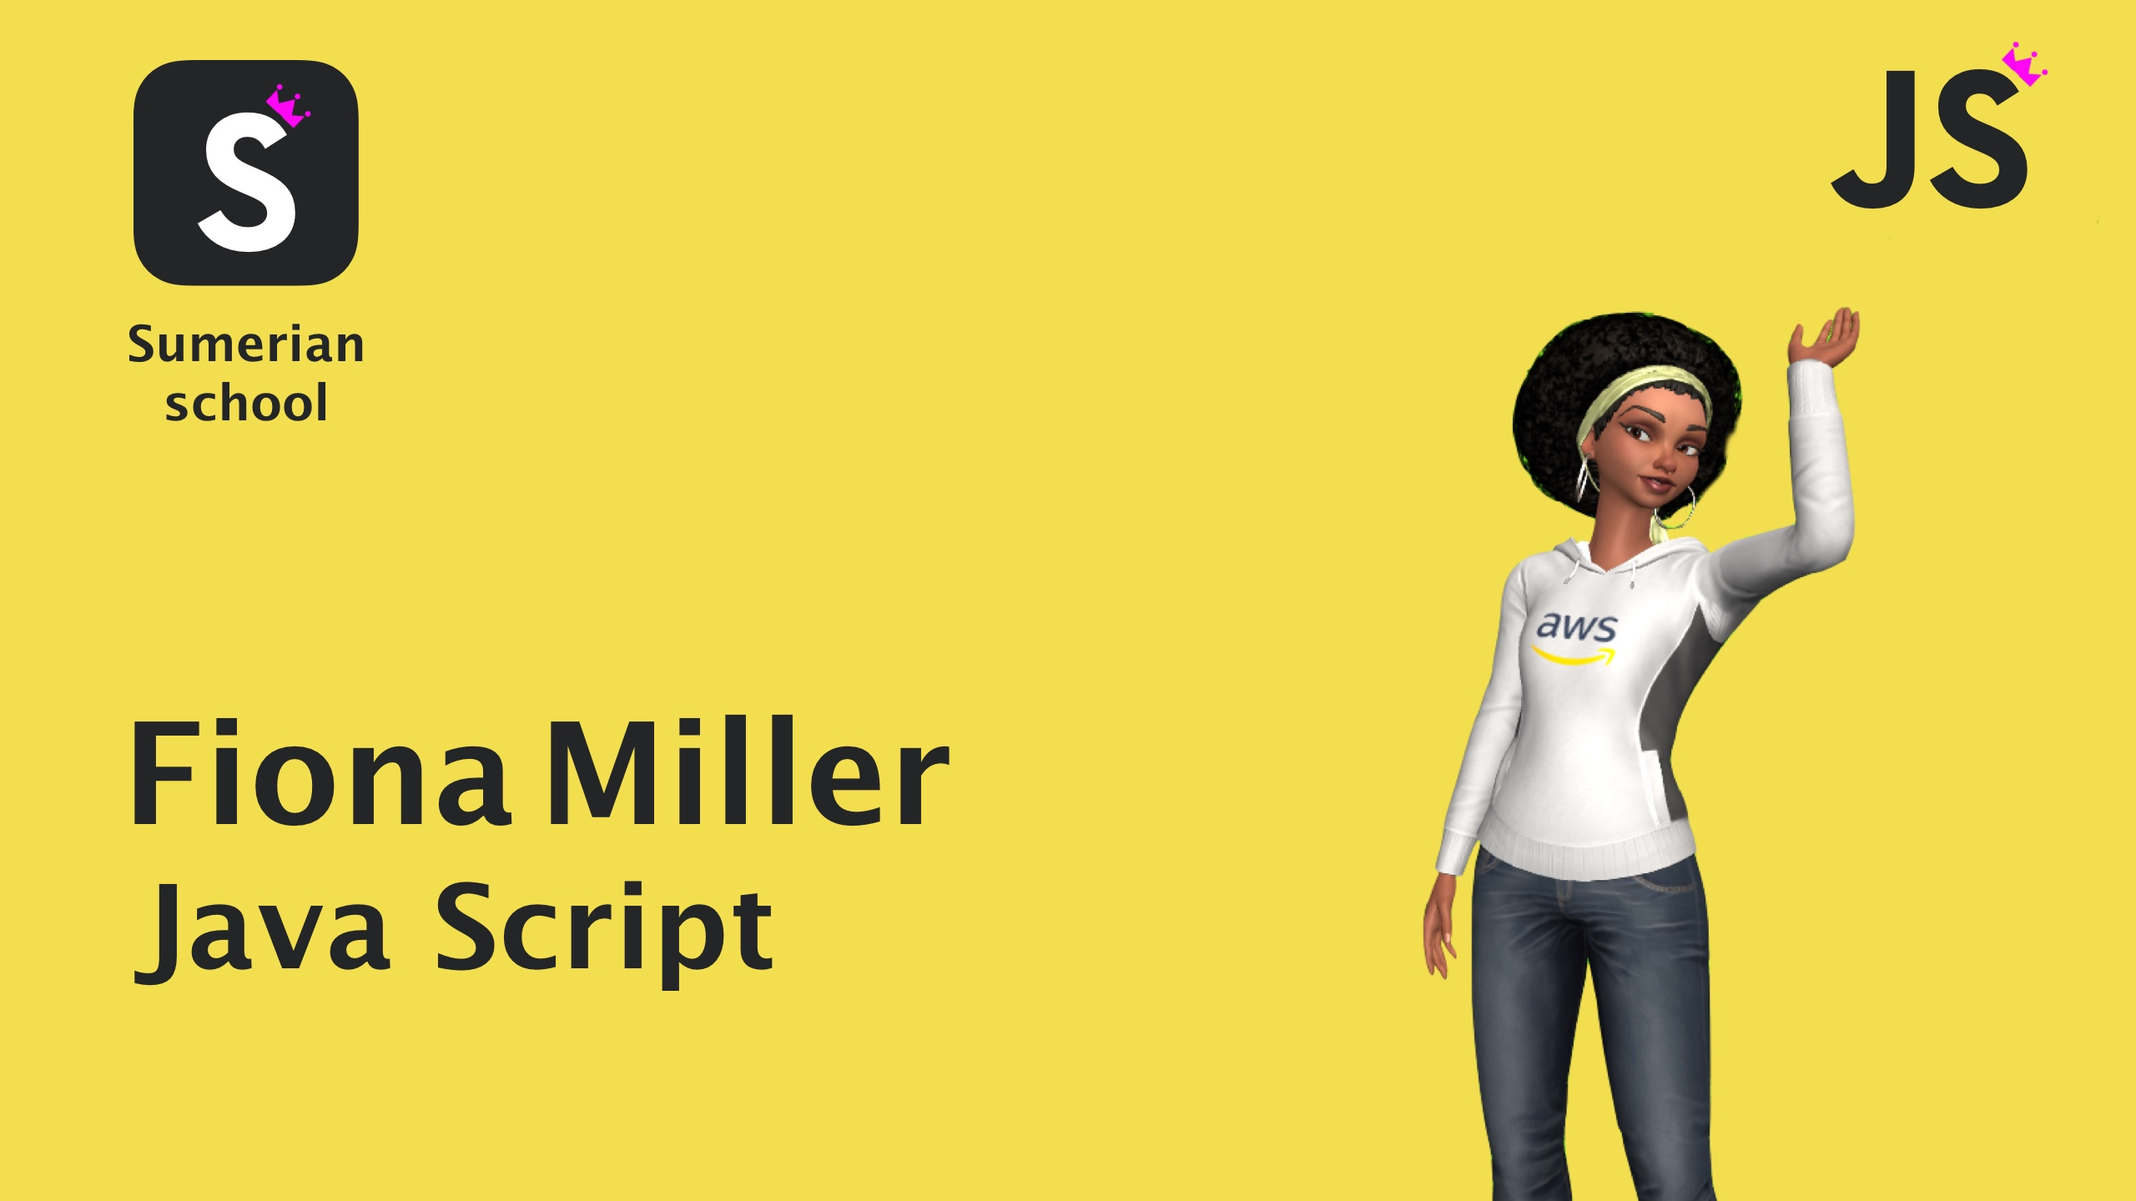
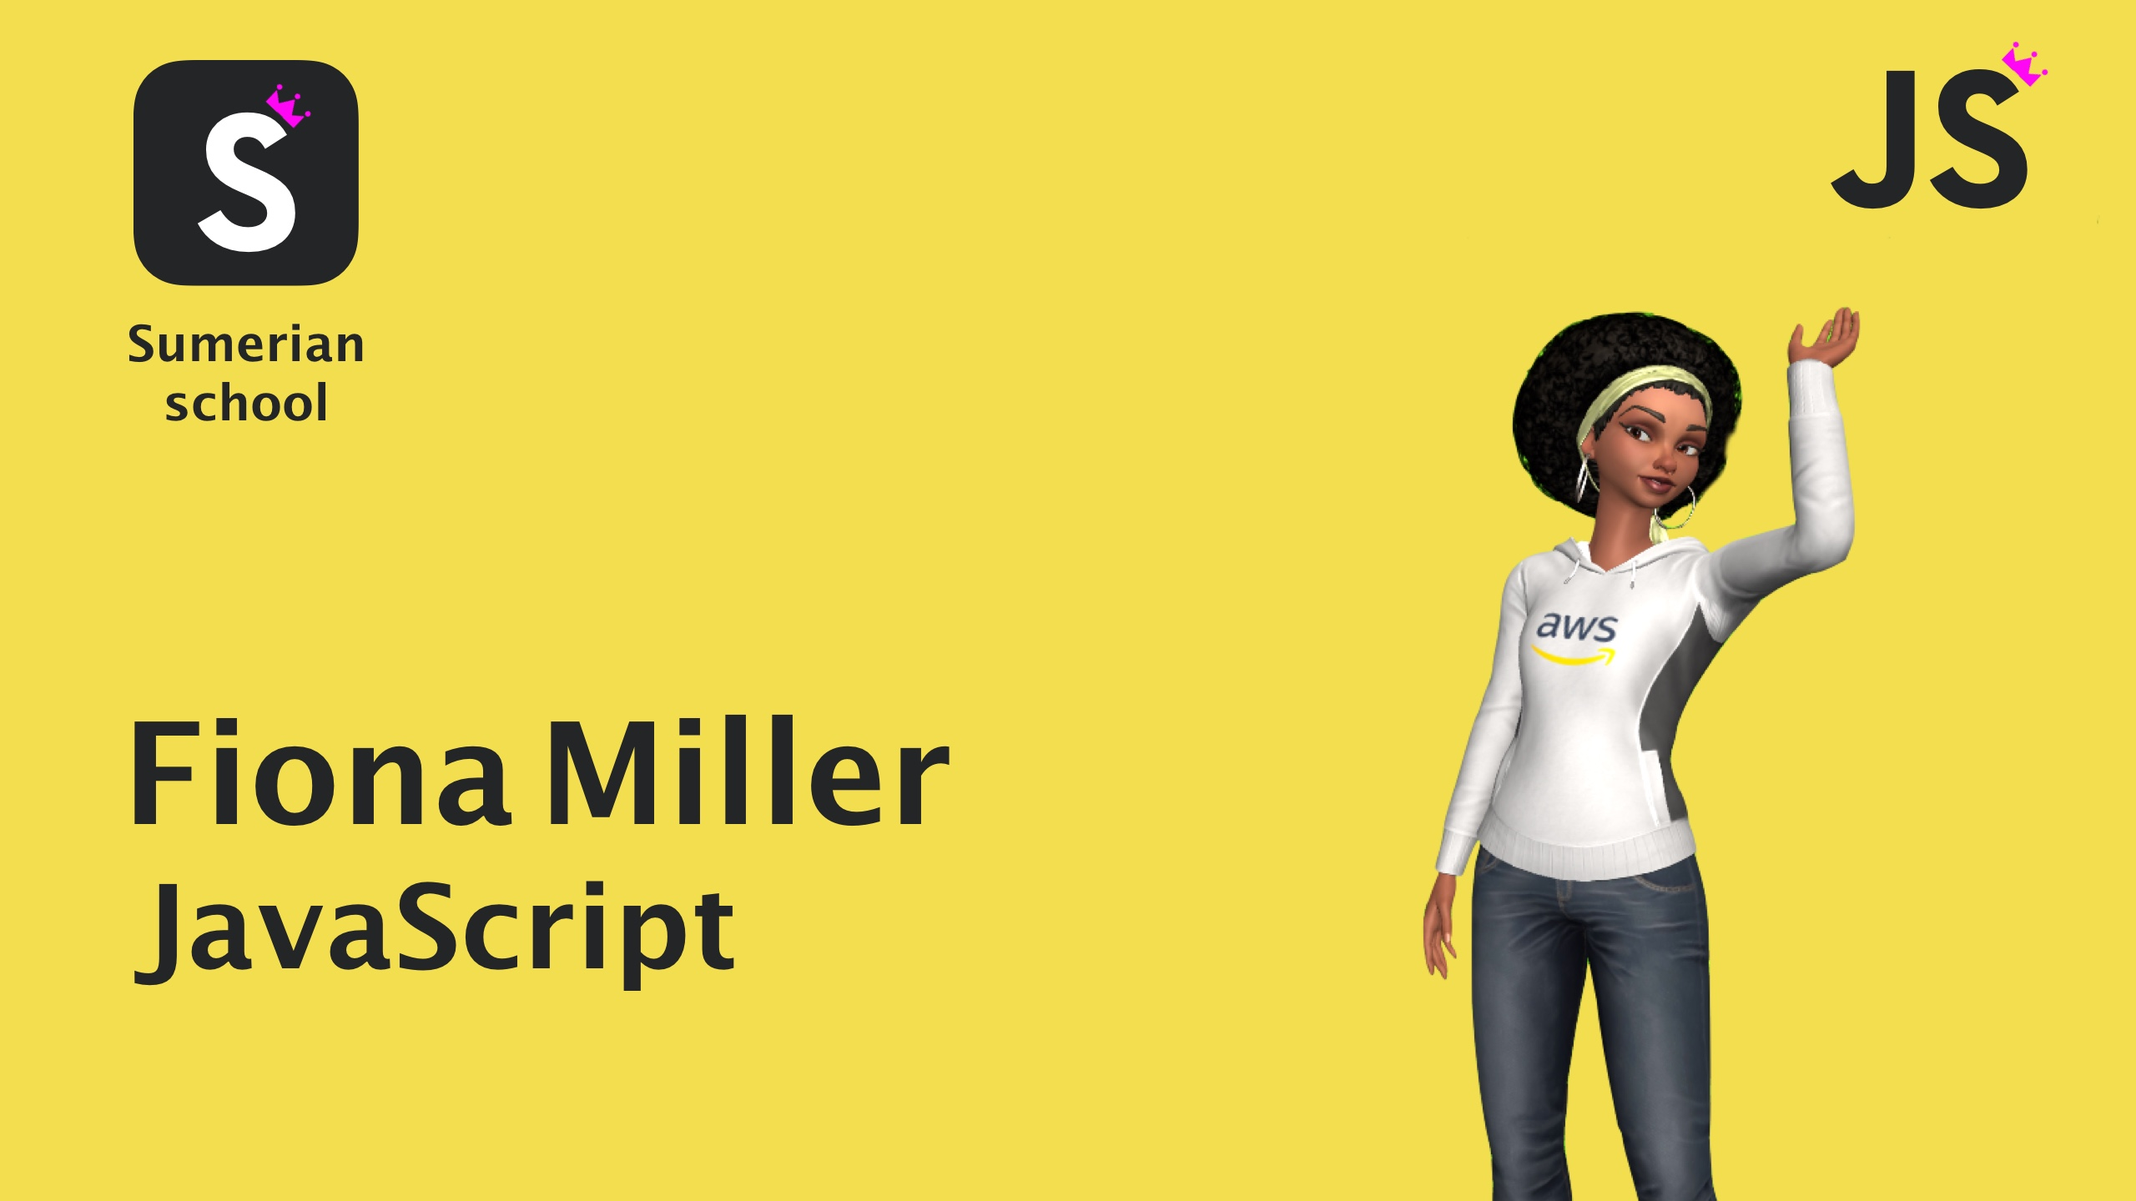
update image

Changed region(s): [[0.1875, 0.7188, 0.375, 0.8438]]

diff --git a/docusaurus.config.js b/docusaurus.config.js
@@ -50,12 +50,12 @@ module.exports = {
     metadatas: [
       {
         name: 'description',
-        content: 'JavaScript Camp - программа обучения JavaScript в стеке React Native, Type Script, AWS Amplify'
+        content: 'JavaScript Camp - программа обучения JavaScript в стеке React Native, TypeScript, AWS Amplify'
       },
       { property: 'og:title', content: 'JavaScript Camp' },
       {
         property: 'og:description',
-        content: 'JavaScript Camp - программа обучения JavaScript в стеке React Native, Type Script, AWS Amplify'
+        content: 'JavaScript Camp - программа обучения JavaScript в стеке React Native, TypeScript, AWS Amplify'
       },
       { property: 'og:url', content: 'https://jscamp.app/' },
       {

diff --git a/src/pages/index.js b/src/pages/index.js
@@ -30,7 +30,7 @@ const features = [
     title: 'We give practice and employ the best',
     imageUrl: 'img/undraw_docusaurus_tree.svg',
     description:
-      'After completing our course and practice in the stack of Java Script, Type Script, React Native, AWS Amplify, in our startup, distinguished students will find employment in our company or partner companies.'
+      'After completing our course and practice in the stack of JavaScript, TypeScript, React Native, AWS Amplify, in our startup, distinguished students will find employment in our company or partner companies.'
   },
   {
     title: 'Opened knowledge, open it to another',

diff --git a/i18n/ru/docusaurus-plugin-content-docs/current/javascript00.md b/i18n/ru/docusaurus-plugin-content-docs/current/javascript00.md
@@ -14,7 +14,7 @@ import YouTube from 'react-youtube'
 
 > [Cloud Programming Simplified: A Berkeley View on Serverless Computing](https://www2.eecs.berkeley.edu/Pubs/TechRpts/2019/EECS-2019-3.pdf), February 10, 2019
 
-Из этого прогноза очевиден спрос на serverless технологии, а значит и на обучающие этим технологиям ресурсы. Поэтому мы организовали школу программирования, где обучаем serverless технологиям AWS Amplify, а также подготавливаем к ним обучая [английскому языку по Эмоджи](https://www.jscamp.app/docs/blogging-01/U), [JavaScript](https://www.jscamp.app/ru/docs/javascript01), [React Native](https://www.jscamp.app/ru/docs/start000) и [Type Script](https://www.jscamp.app/ru/docs/typescript00).
+Из этого прогноза очевиден спрос на serverless технологии, а значит и на обучающие этим технологиям ресурсы. Поэтому мы организовали школу программирования, где обучаем serverless технологиям AWS Amplify, а также подготавливаем к ним обучая [английскому языку по Эмоджи](https://www.jscamp.app/docs/blogging-01/U), [JavaScript](https://www.jscamp.app/ru/docs/javascript01), [React Native](https://www.jscamp.app/ru/docs/start000) и [TypeScript](https://www.jscamp.app/ru/docs/typescript00).
 
 ![javaScript](https://media.giphy.com/media/ln7z2eWriiQAllfVcn/giphy.gif)
 
@@ -26,7 +26,7 @@ import YouTube from 'react-youtube'
 
 ## Цель программы
 
-Подготовить к курсу по мобильной разработке в стеке React Native / Type Script / AWS Amplify и к сертификации в [AWS Certification](https://aws.amazon.com/ru/certification/), где в процессе подготовки, вы получите широкий набор экспертных знаний, ресурсов и программ. Мы поможем вам эффективно подтвердить свой опыт в облачных технологиях и в мобильной разработке, нужной каждому бизнесу в наше время.
+Подготовить к курсу по мобильной разработке в стеке React Native / TypeScript / AWS Amplify и к сертификации в [AWS Certification](https://aws.amazon.com/ru/certification/), где в процессе подготовки, вы получите широкий набор экспертных знаний, ресурсов и программ. Мы поможем вам эффективно подтвердить свой опыт в облачных технологиях и в мобильной разработке, нужной каждому бизнесу в наше время.
 
 ![AWS](https://entrackr.com/wp-content/uploads/2018/05/Amazon_smart_home_2.gif)
 
@@ -66,7 +66,7 @@ import YouTube from 'react-youtube'
 [AWS Amplify](https://aws.amazon.com/en/amplify/) – это набор средств и сервисов, которые могут совместно или по отдельности использовать разработчики веб-интерфейсов и мобильных приложений для создания масштабируемых комплексных приложений на базе AWS. С помощью Amplify можно настраивать серверные части приложений и подключать приложения за считаные минуты, развертывать статические веб-приложения несколькими щелчками мыши и легко управлять содержимым приложений за пределами консоли AWS.
 Amplify поддерживает популярные веб-платформы, в частности JavaScript, React, Angular, Vue, Next.js, а также мобильные платформы, в частности Android, iOS, React Native, Ionic, Flutter (предварительная версия). Быстрый выход на рынок с AWS Amplify.
 
-## Type Script
+## TypeScript
 
 JavaScript изначально создавался, чтобы делать веб-страницы живыми. Из-за простоты его использования, он завоевал популярность и его начали использовать практически на всех платформах. Код JavaScript строится на скриптах, которые по задумке должны быть не большими и быстрыми. Разработчики не задумывались, что на JavaScript будут писать приложения с большим количеством кода. В связи с чем у больших приложений, написанных на JavaScript возникают проблемы. Вот некоторые из них:
 
@@ -128,49 +128,6 @@ TypeScript - язык программирования, представленн
 
 ![Preston Wild](/img/teachers/PrestonWild.jpg)
 
-
-<!-- ## Программа на январь:
-
-![Camp](https://media.giphy.com/media/EihFwASrXTmiQ/giphy.gif)
-
-4.01 - [Первая программа Hello World](https://react-native-village.github.io/docs/javascript01)
-
-5.01 - [Комментарии](https://react-native-village.github.io/docs/javascript02)
-
-6.01 - [Переменные](https://react-native-village.github.io/docs/javascript03)
-
-7.01 - [Типы данных](https://react-native-village.github.io/docs/javascript04)
-
-8.01 - [Ошибки](https://react-native-village.github.io/docs/javascript05)
-
-11.01 - [Строки](https://react-native-village.github.io/docs/javascript06)
-
-12.01 - [Числа](https://react-native-village.github.io/docs/javascript07)
-
-13.01 - [Истина или ложь?](https://react-native-village.github.io/docs/javascript08)
-
-14.01 - [Преобразование и приведение типов](https://react-native-village.github.io/docs/javascript09)
-
-15.01 - [Функции](https://react-native-village.github.io/docs/javascript10)
-
-18.01 - [Объекты](https://react-native-village.github.io/docs/javascript11)
-
-19.01 - [Блочная область видимости](https://react-native-village.github.io/docs/javascript12)
-
-20.01 - [Регулярные выражения](https://react-native-village.github.io/docs/javascript13)
-
-21.01 - [Конструкция switch case](https://react-native-village.github.io/docs/javascript14)
-
-22.01 - [Инкапсуляция](https://react-native-village.github.io/docs/javascript15)
-
-25.01 - [Наследование](https://react-native-village.github.io/docs/javascript16)
-
-26.01 - [Циклы](https://react-native-village.github.io/docs/javascript17)
-
-27.01 - [Массивы и псевдомассивы](https://react-native-village.github.io/docs/javascript18)
-
-Подпишитесь на весь [календарь](http://p14-caldav.icloud.com/published/2/MTYyNzQyOTgyMzE2Mjc0MnJDaPjzgR0U-x4uD_nwjr8evco8zKn-1uWVIxx9RjsmCHqFd78vLOOEuCTnjF0D0nkHFj1HIpgT0mr_ioXK22M) -->
-
 ## Автор курса
 
 Автор курса по JavaScript - [Server Serverlesskiy](https://twitter.com/koshasuperstar), является создателем первого в рунете учебного курса по [React Native](https://react-native-village.github.io/docs/start000), а также первый русский блогер-программист в программе [AWS Comunity Builders](https://aws.amazon.com/ru/developer/community/community-builders/) от Amazon.
@@ -183,7 +140,7 @@ TypeScript - язык программирования, представленн
 
 Это музыкальное видео по AWS Community Builder совершенно другого уровня 🔥 😅
 
-Это курс по мобильной разработке в стеке React Native / Type Script / AWS Amplify и для сертификации в AWS Certification. Стоит проверить!
+Это курс по мобильной разработке в стеке React Native / TypeScript / AWS Amplify и для сертификации в AWS Certification. Стоит проверить!
 
 ## Процесс обучения
 

diff --git a/docs/javascript00.md b/docs/javascript00.md
@@ -14,7 +14,7 @@ import YouTube from 'react-youtube'
 
 > [Cloud Programming Simplified: A Berkeley View on Serverless Computing](https://www2.eecs.berkeley.edu/Pubs/TechRpts/2019/EECS-2019-3.pdf), February 10, 2019
 
-From this forecast, the demand for serverless technologies is obvious, and therefore for resources teaching these technologies. Therefore, we organized a programming school where we teach serverless technologies AWS Amplify, as well as prepare for them by teaching [English using Emoji](https://www.jscamp.app/docs/blogging-01/), [JavaScript](https://www.jscamp.app/ru/docs/javascript01), [React Native](https://www.jscamp.app/ru/docs/start000) and [Type Script](https://www.jscamp.app/ru/docs/typescript00).
+From this forecast, the demand for serverless technologies is obvious, and therefore for resources teaching these technologies. Therefore, we organized a programming school where we teach serverless technologies AWS Amplify, as well as prepare for them by teaching [English using Emoji](https://www.jscamp.app/docs/blogging-01/), [JavaScript](https://www.jscamp.app/ru/docs/javascript01), [React Native](https://www.jscamp.app/ru/docs/start000) and [TypeScript](https://www.jscamp.app/ru/docs/typescript00).
 
 ![javaScript](https://media.giphy.com/media/ln7z2eWriiQAllfVcn/giphy.gif)
 
@@ -26,7 +26,7 @@ For this, we have created a mobile application [Sumerian School](http://onelink.
 
 ## Purpose of the program
 
-Prepare for the course on mobile development in the React Native / Type Script / AWS Amplify stack and for certification in [AWS Certification](https://aws.amazon.com/en/certification/), where in the process of preparation you will receive a wide range of expertise, resources and programs. We will help you effectively validate your cloud and mobile development expertise that every business needs today.
+Prepare for the course on mobile development in the React Native / TypeScript / AWS Amplify stack and for certification in [AWS Certification](https://aws.amazon.com/en/certification/), where in the process of preparation you will receive a wide range of expertise, resources and programs. We will help you effectively validate your cloud and mobile development expertise that every business needs today.
 
 ![AWS](https://entrackr.com/wp-content/uploads/2018/05/Amazon_smart_home_2.gif)
 
@@ -66,7 +66,7 @@ This course contains the minimum knowledge you need to create mobile application
 [AWS Amplify](https://aws.amazon.com/en/amplify/) – it is a set of tools and services that can be used together or separately by web and mobile developers to build scalable end-to-end applications on AWS. With Amplify, you can configure application backends and connect applications in minutes, deploy static web applications with a few clicks, and easily manage application content outside of the AWS console.
 Amplify supports popular web platforms like JavaScript, React, Angular, Vue, Next.js, and mobile platforms like Android, iOS, React Native, Ionic, Flutter (preview). Fast time to market with AWS Amplify.
 
-## Type Script
+## TypeScript
 
 JavaScript was originally created to make web pages live. Due to its ease of use, it gained popularity and began to be used on almost all platforms. JavaScript code is built on scripts, which are supposed to be small and fast. The developers didn't think that JavaScript would be used to write applications with a lot of code. In this connection, large applications written in JavaScript have problems. Here is some of them:
 
@@ -144,7 +144,7 @@ The author of the JavaScript course - [Server Serverlesskiy](https://twitter.com
 
 This is a completely different level of AWS Community Builder music video 🔥 😅
 
-This is a mobile development course on the React Native / Type Script / AWS Amplify Stack and for AWS Certification. Worth checking out!
+This is a mobile development course on the React Native / TypeScript / AWS Amplify Stack and for AWS Certification. Worth checking out!
 
 ## Learning process
 

diff --git a/i18n/zh/docusaurus-plugin-content-docs/current/javascript00.md b/i18n/zh/docusaurus-plugin-content-docs/current/javascript00.md
@@ -23,7 +23,7 @@ import ExecutionEnvironment from '@docusaurus/ExecutionEnvironment'
 
 ## 計劃目的
 
-在React Native / Type Script / AWS Amplify堆棧中為移動開發課程做準備並在 [AWS Certification](https://aws.amazon.com/en/certification/), 在準備過程中，您將獲得廣泛的專業知識，資源和計劃。 我們將幫助您有效地驗證當今每項業務所需的雲和移動開發專業知識。
+在React Native / TypeScript / AWS Amplify堆棧中為移動開發課程做準備並在 [AWS Certification](https://aws.amazon.com/en/certification/), 在準備過程中，您將獲得廣泛的專業知識，資源和計劃。 我們將幫助您有效地驗證當今每項業務所需的雲和移動開發專業知識。
 
 ![AWS](https://entrackr.com/wp-content/uploads/2018/05/Amazon_smart_home_2.gif)
 
